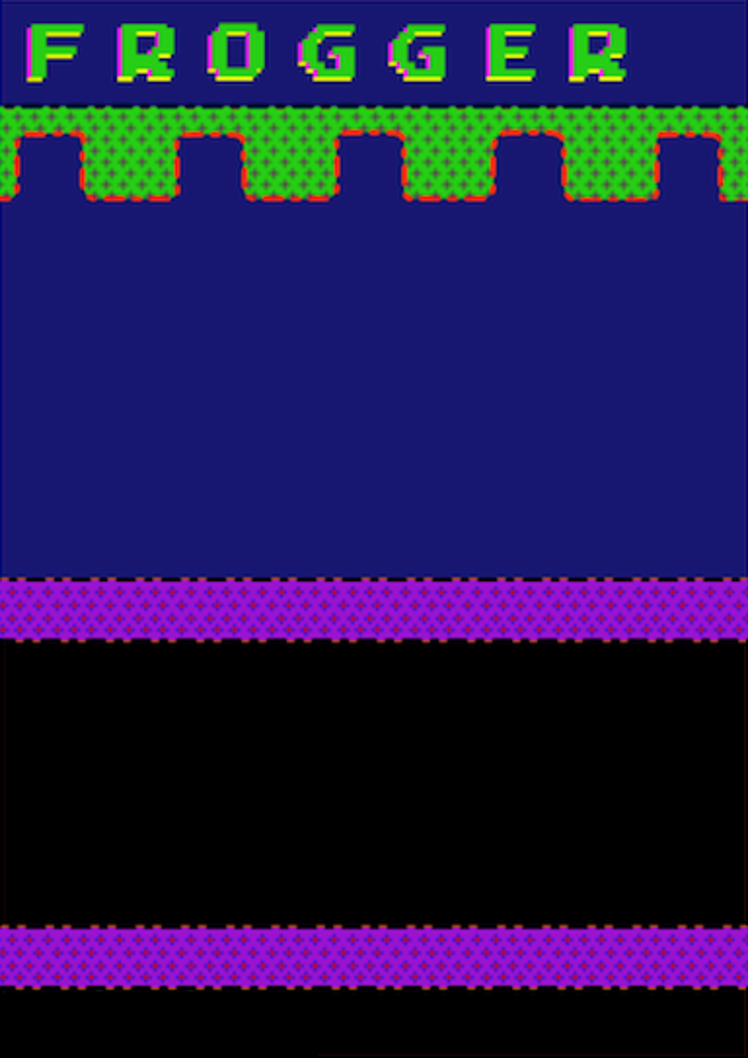
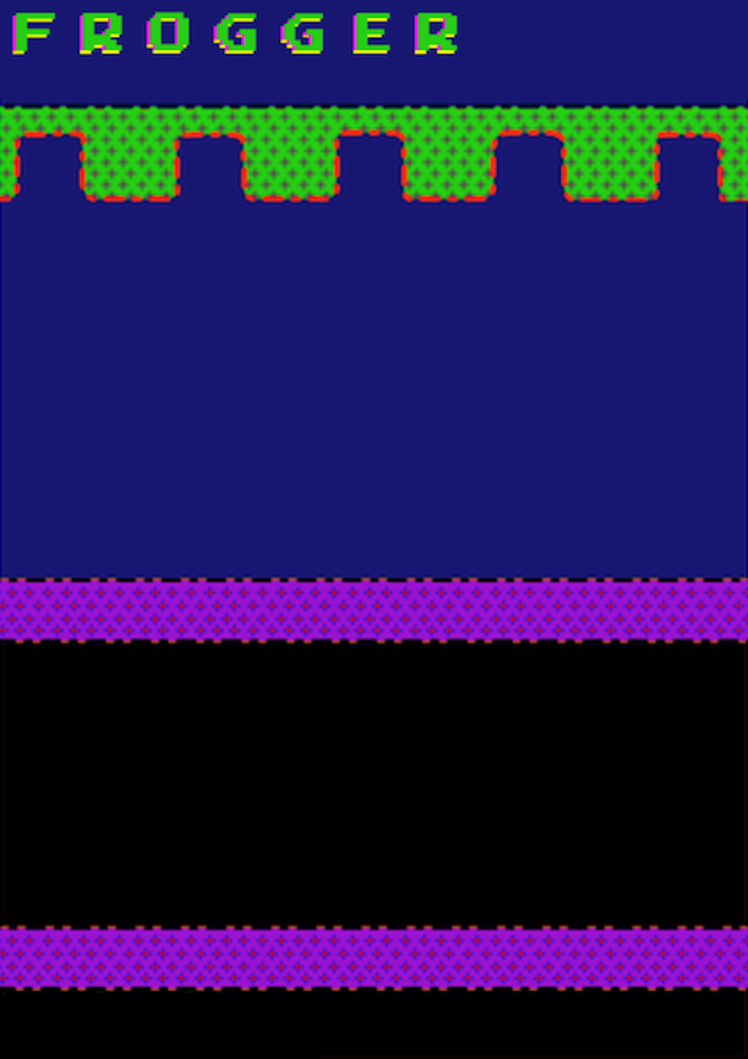
Edit on interface design

Changed region(s): [[0.0, 0.0, 0.615, 0.0936], [0.6457, 0.0, 0.861, 0.0936]]

diff --git a/src/p4_group_8_repo/Main.java b/src/p4_group_8_repo/Main.java
@@ -49,10 +49,10 @@ public class Main extends Application {
 	private ArrayList<Life> ArrayLife = new ArrayList<Life>();	//save the actor of Life
 	private Life lifeImg;
 	private Instruction howtoplay;
-	private Instruction instruction = new Instruction("file:src/p4_group_8_repo/instruction.png", 540, 10, 50, 50);
-	private Pause pause = new Pause(0, 10, 40, 40);
-	private Resume resume = new Resume(0, 10, 40, 40);
-	Sound sound = new Sound();
+	private Instruction instruction = new Instruction("file:src/p4_group_8_repo/instruction.png", 560, 10, 30, 30);
+	private Pause pause = new Pause(525, 10, 30, 30);
+	private Resume resume = new Resume(525, 10, 30, 30);
+	private Sound sound = new Sound();
 	
 	public static void main(String[] args) {
 		launch(args);
@@ -77,7 +77,7 @@ public class Main extends Application {
 		background.add(howtoplay);	//addprintinstruction at main page
 		
 		//create sound button to play music or mute
-		sound = new Sound(background, 50, 10, 40, 40);
+		sound = new Sound(background, 490, 10, 30, 30);
 		
 		background.start();
 		
@@ -116,7 +116,7 @@ public class Main extends Application {
             		background.add(instruction);
             		background.add(pause);
             		background.add(sound);
-            		background.add(new Digit(0, 360, 25, 30, 30));
+            		background.add(new Digit(0, 450, 10, 30, 30));
             		level1 = new Level1(background);
             		setAnimal(level1.animal);
             		setPrintGame(false);	// to prevent the next second on printing this condition
@@ -230,7 +230,7 @@ public class Main extends Application {
     		  int d = n / 10;
     		  int k = n - d * 10;
     		  n = d;
-    		  digit = new Digit(k, 360 - shift, 25, 30, 30);
+    		  digit = new Digit(k, 450 - shift, 10, 30, 30);
     		  ArrayDigit.add(digit);
     		  background.add(digit);
     		  shift+=30;		
@@ -242,10 +242,10 @@ public class Main extends Application {
 		if(life == 3) {
 			//ArrayLife.clear(); //clear previous level life
 			for(int i = 0; i < 3;i++) {
-				lifeImg = new Life(background, 480 + shift, 65, 35, 35);
+				lifeImg = new Life(background, 450 - shift, 50, 25, 25);
 	    		ArrayLife.add(lifeImg);
 	    		background.add(lifeImg);
-				shift += 40;
+				shift += 33;
 			}
 		}
 		else if(life == 2 || life == 1 || life == 0){
@@ -491,7 +491,7 @@ public class Main extends Application {
 
     //not use yet this is new window
     public void setting() {
-    	Sound sound = new Sound(background, 50, 50, 50, 50);
+    	Sound sound = new Sound(background, 450, 10, 30, 30);
     	Stage new_stage = new Stage();
     	MyStage settingBackground = new MyStage();
     	Scene new_scene = new Scene(settingBackground, 200, 200);

diff --git a/src/p4_group_8_repo/Level1.java b/src/p4_group_8_repo/Level1.java
@@ -9,6 +9,7 @@ public class Level1{
 	End end1, end2, end3, end4, end5;
 	CarObstacle carobstacle1, carobstacle2, carobstacle3, carobstacle4, carobstacle5;
 	TruckObstacle truckobstacle1, truckobstacle2, truckobstacle3, truckobstacle4, truckobstacle5;
+	LevelImage levelImage;
 	private int score = 0;
 	
 	public Level1() {
@@ -16,11 +17,17 @@ public class Level1{
 	}
 	
 	public Level1(MyStage background) {
+		addLevelImage(background);
 		addLog(background);
 		addTurtle(background);
 		addEnd(background);
 		addAnimal(background);
 		addObstacle(background);
+	}
+	
+	public void addLevelImage(MyStage background) {
+		levelImage = new LevelImage(1, 10, 40, 130, 130);
+		background.add(levelImage);
 	}
 	
 	public void addLog(MyStage background) {
@@ -156,6 +163,7 @@ public class Level1{
     }
     
     public void remove(MyStage background) {
+    	removeLevelImage(background);
     	removeLog(background);
     	removeTurtle(background);
     	removeEnd(background);
@@ -163,6 +171,11 @@ public class Level1{
     	removeCarObstacle(background);
     	removeTruckObstacle(background);
     }
+    
+    public void removeLevelImage(MyStage background) {
+    	background.remove(levelImage);
+    }
+
     public void removeLog(MyStage background) {
     	background.remove(log1);
     	background.remove(log2);
@@ -226,4 +239,3 @@ public class Level1{
     	return score;
     }
 }
-

diff --git a/src/p4_group_8_repo/Level3.java b/src/p4_group_8_repo/Level3.java
@@ -9,6 +9,7 @@ public class Level3{
 	End end1, end2, end3, end4, end5;
 	CarObstacle carobstacle1, carobstacle2, carobstacle3, carobstacle4, carobstacle5;
 	TruckObstacle truckobstacle1, truckobstacle2, truckobstacle3, truckobstacle4, truckobstacle5, truckobstacle6;
+	LevelImage levelImage;
 	private int score = 0;
 	
 	public Level3() {
@@ -16,11 +17,17 @@ public class Level3{
 	}
 	
 	public Level3(MyStage background, Animal animal) {
+		addLevelImage(background);
 		addLog(background);
 		addTurtle(background);
 		addEnd(background);
 		addAnimal(background, animal);
 		addObstacle(background);
+	}
+	
+	public void addLevelImage(MyStage background) {
+		levelImage = new LevelImage(3, 10, 40, 130, 130);
+		background.add(levelImage);
 	}
 	
 	public void addLog(MyStage background) {
@@ -110,6 +117,7 @@ public class Level3{
     }
     
     public void remove(MyStage background) {
+    	removeLevelImage(background);
     	removeLog(background);
     	removeTurtle(background);
     	removeEnd(background);
@@ -117,6 +125,11 @@ public class Level3{
     	removeCarObstacle(background);
     	removeTruckObstacle(background);
     }
+    
+    public void removeLevelImage(MyStage background) {
+    	background.remove(levelImage);
+    }
+    
     public void removeLog(MyStage background) {
     	background.remove(log1);
     	background.remove(log2);

diff --git a/src/p4_group_8_repo/Level2.java b/src/p4_group_8_repo/Level2.java
@@ -9,6 +9,7 @@ public class Level2{
 	End end1, end2, end3, end4, end5;
 	CarObstacle carobstacle1, carobstacle2, carobstacle3, carobstacle4, carobstacle5, carobstacle6;
 	TruckObstacle truckobstacle1, truckobstacle2, truckobstacle3, truckobstacle4, truckobstacle5;
+	LevelImage levelImage;
 	private int score = 0;
 	
 	public Level2() {
@@ -16,11 +17,17 @@ public class Level2{
 	}
 	
 	public Level2(MyStage background, Animal animal) {
+		addLevelImage(background);
 		addLog(background);
 		addTurtle(background);
 		addEnd(background);
 		addAnimal(background, animal);
 		addObstacle(background);
+	}
+	
+	public void addLevelImage(MyStage background) {
+		levelImage = new LevelImage(2, 10, 40, 130, 130);
+		background.add(levelImage);
 	}
 	
 	public void addLog(MyStage background) {
@@ -110,6 +117,7 @@ public class Level2{
     }
     
     public void remove(MyStage background) {
+    	removeLevelImage(background);
     	removeLog(background);
     	removeTurtle(background);
     	removeEnd(background);
@@ -117,6 +125,11 @@ public class Level2{
     	removeCarObstacle(background);
     	removeTruckObstacle(background);
     }
+    
+    public void removeLevelImage(MyStage background) {
+    	background.remove(levelImage);
+    }
+    
     public void removeLog(MyStage background) {
     	background.remove(log1);
     	background.remove(log2);

diff --git a/src/p4_group_8_repo/Animal.java b/src/p4_group_8_repo/Animal.java
@@ -188,7 +188,7 @@ public class Animal extends Actor {
 	}
 	
 	public boolean getStop() {
-		return end==5;	//return true if end == 5
+		return end==1;	//return true if end == 5
 	}
 	
 	public int getEnd() {
@@ -336,10 +336,10 @@ public class Animal extends Actor {
 	public void Intersection() {
 		double speed;	//create this variable to get the speed of the actor intersection with
 		// so the frog can move at the same speed
-		if (getIntersectingObjects(CarObstacle.class).size() >= 1) {	//intersect with truck
+		if (getIntersectingObjects(CarObstacle.class).size() >= 1) {	//intersect with car
 			this.carDeath = true;
 		}
-		else if (getIntersectingObjects(CarObstacle.class).size() >= 1) {	//intersect with truck
+		else if (getIntersectingObjects(TruckObstacle.class).size() >= 1) {	//intersect with truck
 			this.carDeath = true;
 		}
 		else if (getIntersectingObjects(Log.class).size() >= 1 && !noMove) {	//intersect with log

diff --git a/src/p4_group_8_repo/LevelImage.java b/src/p4_group_8_repo/LevelImage.java
@@ -1,0 +1,30 @@
+package p4_group_8_repo;
+
+import javafx.scene.image.Image;
+
+public class LevelImage extends Actor {
+
+	private Image level1, level2, level3;
+	@Override
+	public void act(long now) {
+		
+	}
+	
+	/*
+	 * @param imageLink the location of the background's image
+	 */
+	public LevelImage(int level, int xpos, int ypos, double width, double height) {
+		level1 = new Image("file:src/p4_group_8_repo/Level1.png", width, height, true, true);
+		level2 = new Image("file:src/p4_group_8_repo/Level2.png", width, height, true, true);
+		level3 = new Image("file:src/p4_group_8_repo/Level3.png", width, height, true, true);
+		setX(xpos);
+		setY(ypos);
+		if(level == 1)
+			setImage(level1);
+		else if(level == 2)
+			setImage(level2);
+		else if(level == 3)
+			setImage(level3);
+	}
+
+}
